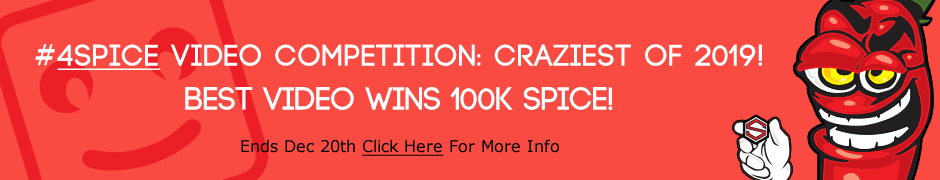
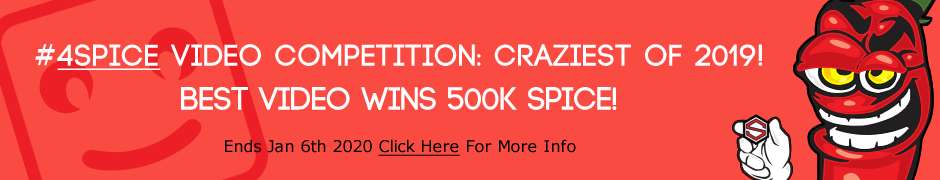
+

Changed region(s): [[0.1851, 0.4722, 0.6787, 0.6111], [0.216, 0.7778, 0.617, 0.8889]]

diff --git a/video_contest.html b/video_contest.html
@@ -134,7 +134,7 @@ fjs.parentNode.insertBefore(js, fjs);
 		<br /><br /><br />
 	</div><!-- end .featured_partner -->
 
-<h6 class="section-title">Current #4Spice Submissions (Ends December 20th 2019)</h6>
+<h6 class="section-title">Current #4Spice Submissions (Ends Jan 6th 2020!)</h6>
 		<hr />
 <div class='woobox-offer' data-offer='68cqzj'></div>
 	
